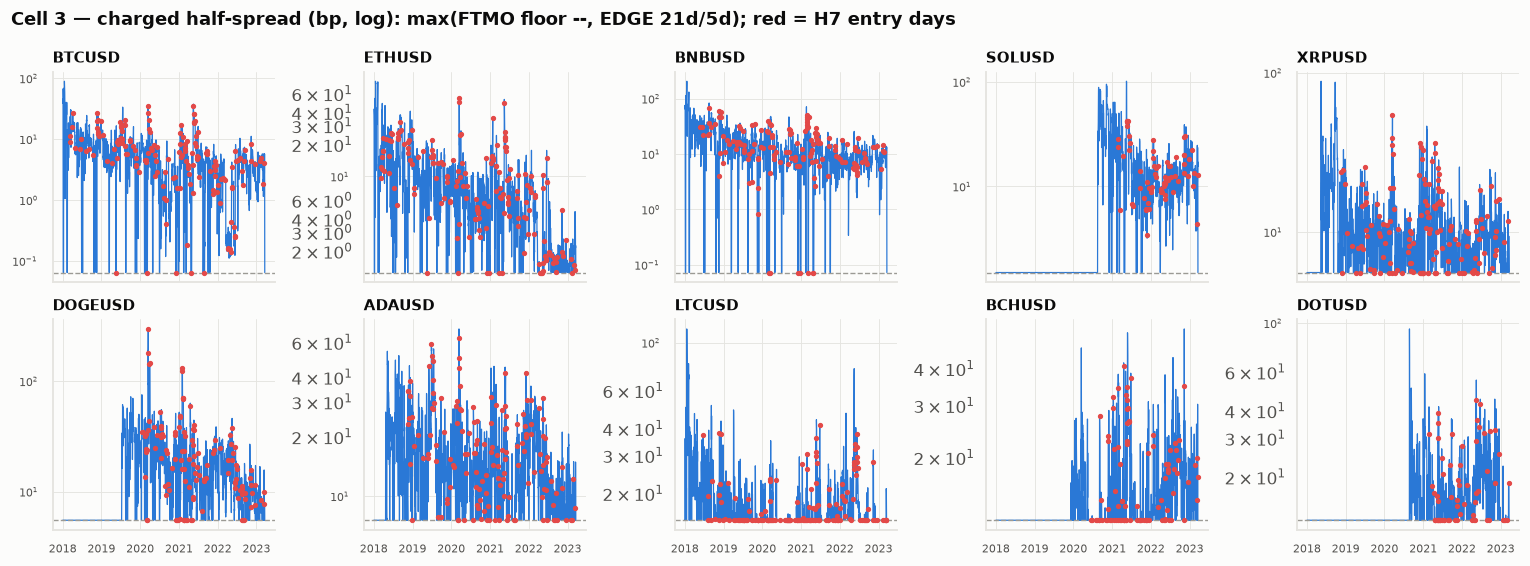
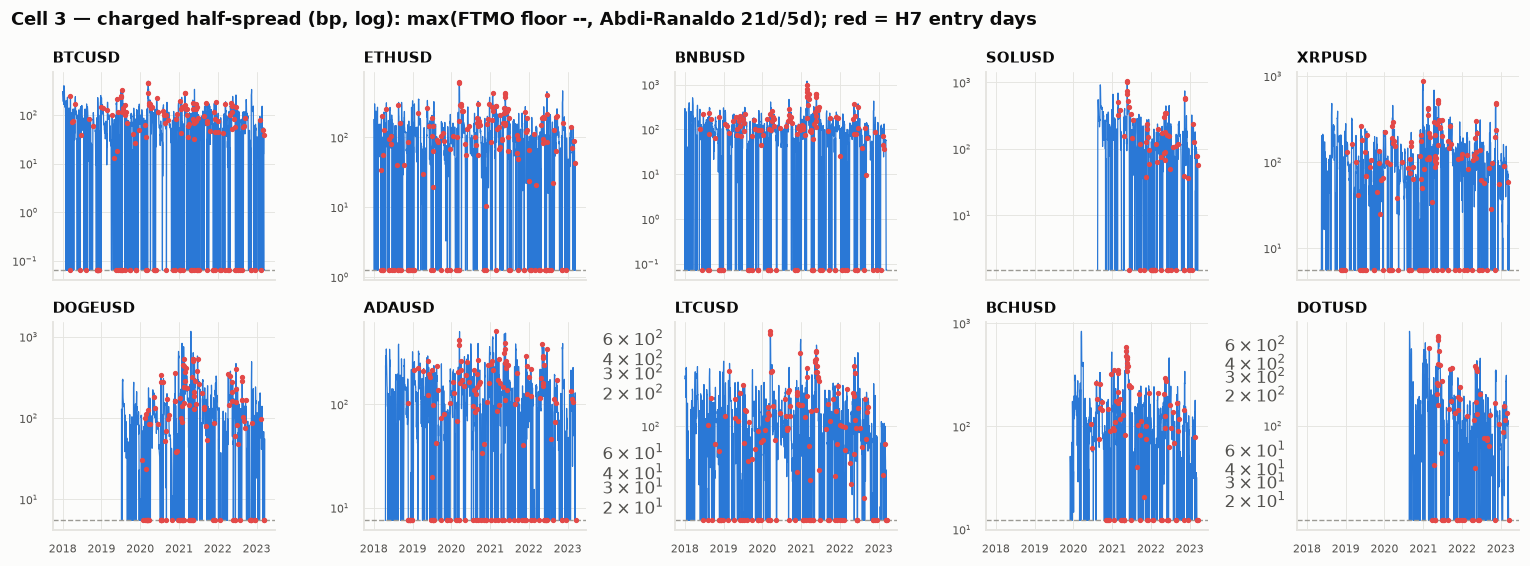
EDA#2 Cell 3 (WIP, not for use): swap EDGE for Abdi-Ranaldo (lagged 1 day, truncation test passes), fix table to listed days
Abdi-Ranaldo on daily crypto OHLC is noise-dominated (BTC median charged half-spread 57 bp vs FTMO measured 0.06 bp).
Spread method for Cell 4 is pending the user's decision; do not run Cell 4 on this frame.

Claude-Session: https://claude.ai/code/session_015L9cUd5vb2VqE1xRdkdCf1

diff --git a/backtest_engine2/notebooks/eda02_crypto_reversal/cell_03_costs.py b/backtest_engine2/notebooks/eda02_crypto_reversal/cell_03_costs.py
@@ -1,7 +1,8 @@
-# Cell 3 — Costs: time-varying spread (EDGE estimate, FTMO floor), commission, nightly FTMO swap with Friday triple
+# Cell 3 — Costs: time-varying spread (Abdi-Ranaldo estimate, FTMO floor), commission, nightly FTMO swap with Friday triple
 # Stage 4. Costs · skills/04-costs.md §4, §4b · Depends on: Cell 1
 # Decisions (user, 2026-09-30): spread source (a) ESTIMATED from Binance OHLC with the FTMO x098 half-spread as a FLOOR;
-# estimator EDGE (Ardia-Guidotti-Kroencke 2024); window: BOTH 21d and 5d, charge the larger; swap (b) discrete nightly,
+# estimator ABDI-RANALDO (user, replacing EDGE after EDGE read BTC at ~70x the FTMO measurement), lagged 1 day
+# because the engine's AR uses the next day's range; window: BOTH 21d and 5d, charge the larger; swap (b) discrete nightly,
 # Friday x3, weekend 0.
 import os
 import sys
@@ -14,7 +15,7 @@ sys.path[:0] = [ROOT, os.path.dirname(ROOT)]
 os.chdir(os.path.dirname(os.path.abspath(__file__)))
 from cellplot import cellplot, setup, PAL, GRAY  # noqa: E402
 from backtest.costs import Commission, CompositeCostModel, RealizedSpread  # noqa: E402
-from eda02_costs import FTMOSwapNightly, daily_ohlc, edge_half_bps, rollover_stamps  # noqa: E402
+from eda02_costs import FTMOSwapNightly, daily_ohlc, ar_half_bps, rollover_stamps  # noqa: E402
 from eda02_strategies import daily_panel, h7_weights_table  # noqa: E402
 
 setup()
@@ -31,7 +32,7 @@ for c in COINS:
     hourly[c] = df.loc[df.index <= CUTOFF, ["open", "high", "low", "close"]]
 d = daily_ohlc(hourly)
 
-e21, e5 = edge_half_bps(d, 21), edge_half_bps(d, 5)
+e21, e5 = ar_half_bps(d, 21), ar_half_bps(d, 5)
 
 # ---- look-ahead test: the estimate labelled at day-end E must be computable from data up to E only ----
 rng = np.random.default_rng(3)
@@ -39,7 +40,7 @@ ends = d["close"].index[d["close"].index >= pd.Timestamp("2018-03-01", tz="UTC")
 fails = 0
 for E in rng.choice(ends, 60, replace=False):
     dt = {k: v.loc[:E] for k, v in d.items()}
-    t21, t5 = edge_half_bps(dt, 21).iloc[-1], edge_half_bps(dt, 5).iloc[-1]
+    t21, t5 = ar_half_bps(dt, 21).iloc[-1], ar_half_bps(dt, 5).iloc[-1]
     fails += (not np.allclose(t21.fillna(-1), e21.loc[E].fillna(-1))) + (not np.allclose(t5.fillna(-1), e5.loc[E].fillna(-1)))
 print(f"SPREAD TRUNCATION TEST: 60 days x 2 windows, {fails} mismatches")
 assert fails == 0, "look-ahead in the spread estimate"
@@ -59,14 +60,15 @@ wk = roll.groupby(roll.index.tz_convert("America/New_York").dayofweek).agg(["cou
 print("rollover bars by New-York weekday (0=Mon): count, multiplier\n", wk.rename(columns={"first": "mult"}).T.to_string())
 print("rollover UTC hours used:", sorted(set(roll.index.hour)))
 
-run = charged_daily[charged_daily.index >= pd.Timestamp("2018-01-01", tz="UTC")]
+listed = d["close"].notna()                                  # complete trading days per coin
+run = charged_daily.where(listed)[charged_daily.index >= pd.Timestamp("2018-01-01", tz="UTC")]
 W7 = h7_weights_table(daily_panel(prices)["r"])
 crash = (W7.reindex(run.index).fillna(0) > 0)
 tbl = pd.DataFrame({
     "ftmo_floor_half": floor.round(2),
-    "edge21_median_half": e21.reindex(run.index).median().round(2),
-    "edge5_median_half": e5.reindex(run.index).median().round(2),
-    "share_days_est_above_floor": (est.reindex(run.index).gt(floor, axis=1)).mean().round(2),
+    "ar21_median_half": e21.reindex(run.index).median().round(2),
+    "ar5_median_half": e5.reindex(run.index).median().round(2),
+    "share_days_est_above_floor": (est.reindex(run.index).gt(floor, axis=1)).where(listed.reindex(run.index)).mean().round(2),
     "charged_half_median": run.median().round(2),
     "charged_half_on_H7_days": run.where(crash).median().round(2),
 })
@@ -104,7 +106,7 @@ for ax, c in zip(axes.ravel(), COINS):
     ax.set_yscale("log")
     ax.set_title(c, fontsize=10, loc="left")
     ax.tick_params(labelsize=7)
-fig.suptitle("Cell 3 — charged half-spread (bp, log): max(FTMO floor --, EDGE 21d/5d); red = H7 entry days", x=0.01,
+fig.suptitle("Cell 3 — charged half-spread (bp, log): max(FTMO floor --, Abdi-Ranaldo 21d/5d); red = H7 entry days", x=0.01,
              ha="left", fontsize=12, fontweight="bold")
 fig.tight_layout()
 cellplot(fig, 3, "spread_charged")

diff --git a/backtest_engine2/notebooks/eda02_crypto_reversal/eda02_costs.py b/backtest_engine2/notebooks/eda02_crypto_reversal/eda02_costs.py
@@ -1,4 +1,4 @@
-"""EDA#2 costs (Cell 3). Spread = max(FTMO x098 measured half-spread, EDGE estimate 21d, EDGE estimate 5d) per coin per bar;
+"""EDA#2 costs (Cell 3). Spread = max(FTMO x098 measured half-spread, Abdi-Ranaldo estimate 21d, 5d) per coin per bar;
 commission 3.25 bp/side; FTMO swap charged ONCE per night at the rollover with Friday triple (user decisions 2026-09-30)."""
 import numpy as np
 import pandas as pd
@@ -61,5 +61,8 @@ def daily_ohlc(hourly):
     return {k: pd.DataFrame(v) for k, v in out.items()}
 
 
-def edge_half_bps(d, window):
-    return ss.estimate(d["high"], d["low"], d["close"], open_=d["open"], method="edge", window=window)
+def ar_half_bps(d, window):
+    """Abdi-Ranaldo (2017) half-spread, bp. The engine's estimator uses the NEXT day's mid-range (eta.shift(-1)), so the raw
+    value labelled E is only known at E+1D. Shifted by one daily row: the value labelled E uses data up to E only."""
+    raw = ss.estimate(d["high"], d["low"], d["close"], method="abdi_ranaldo", window=window)
+    return raw.shift(1)
